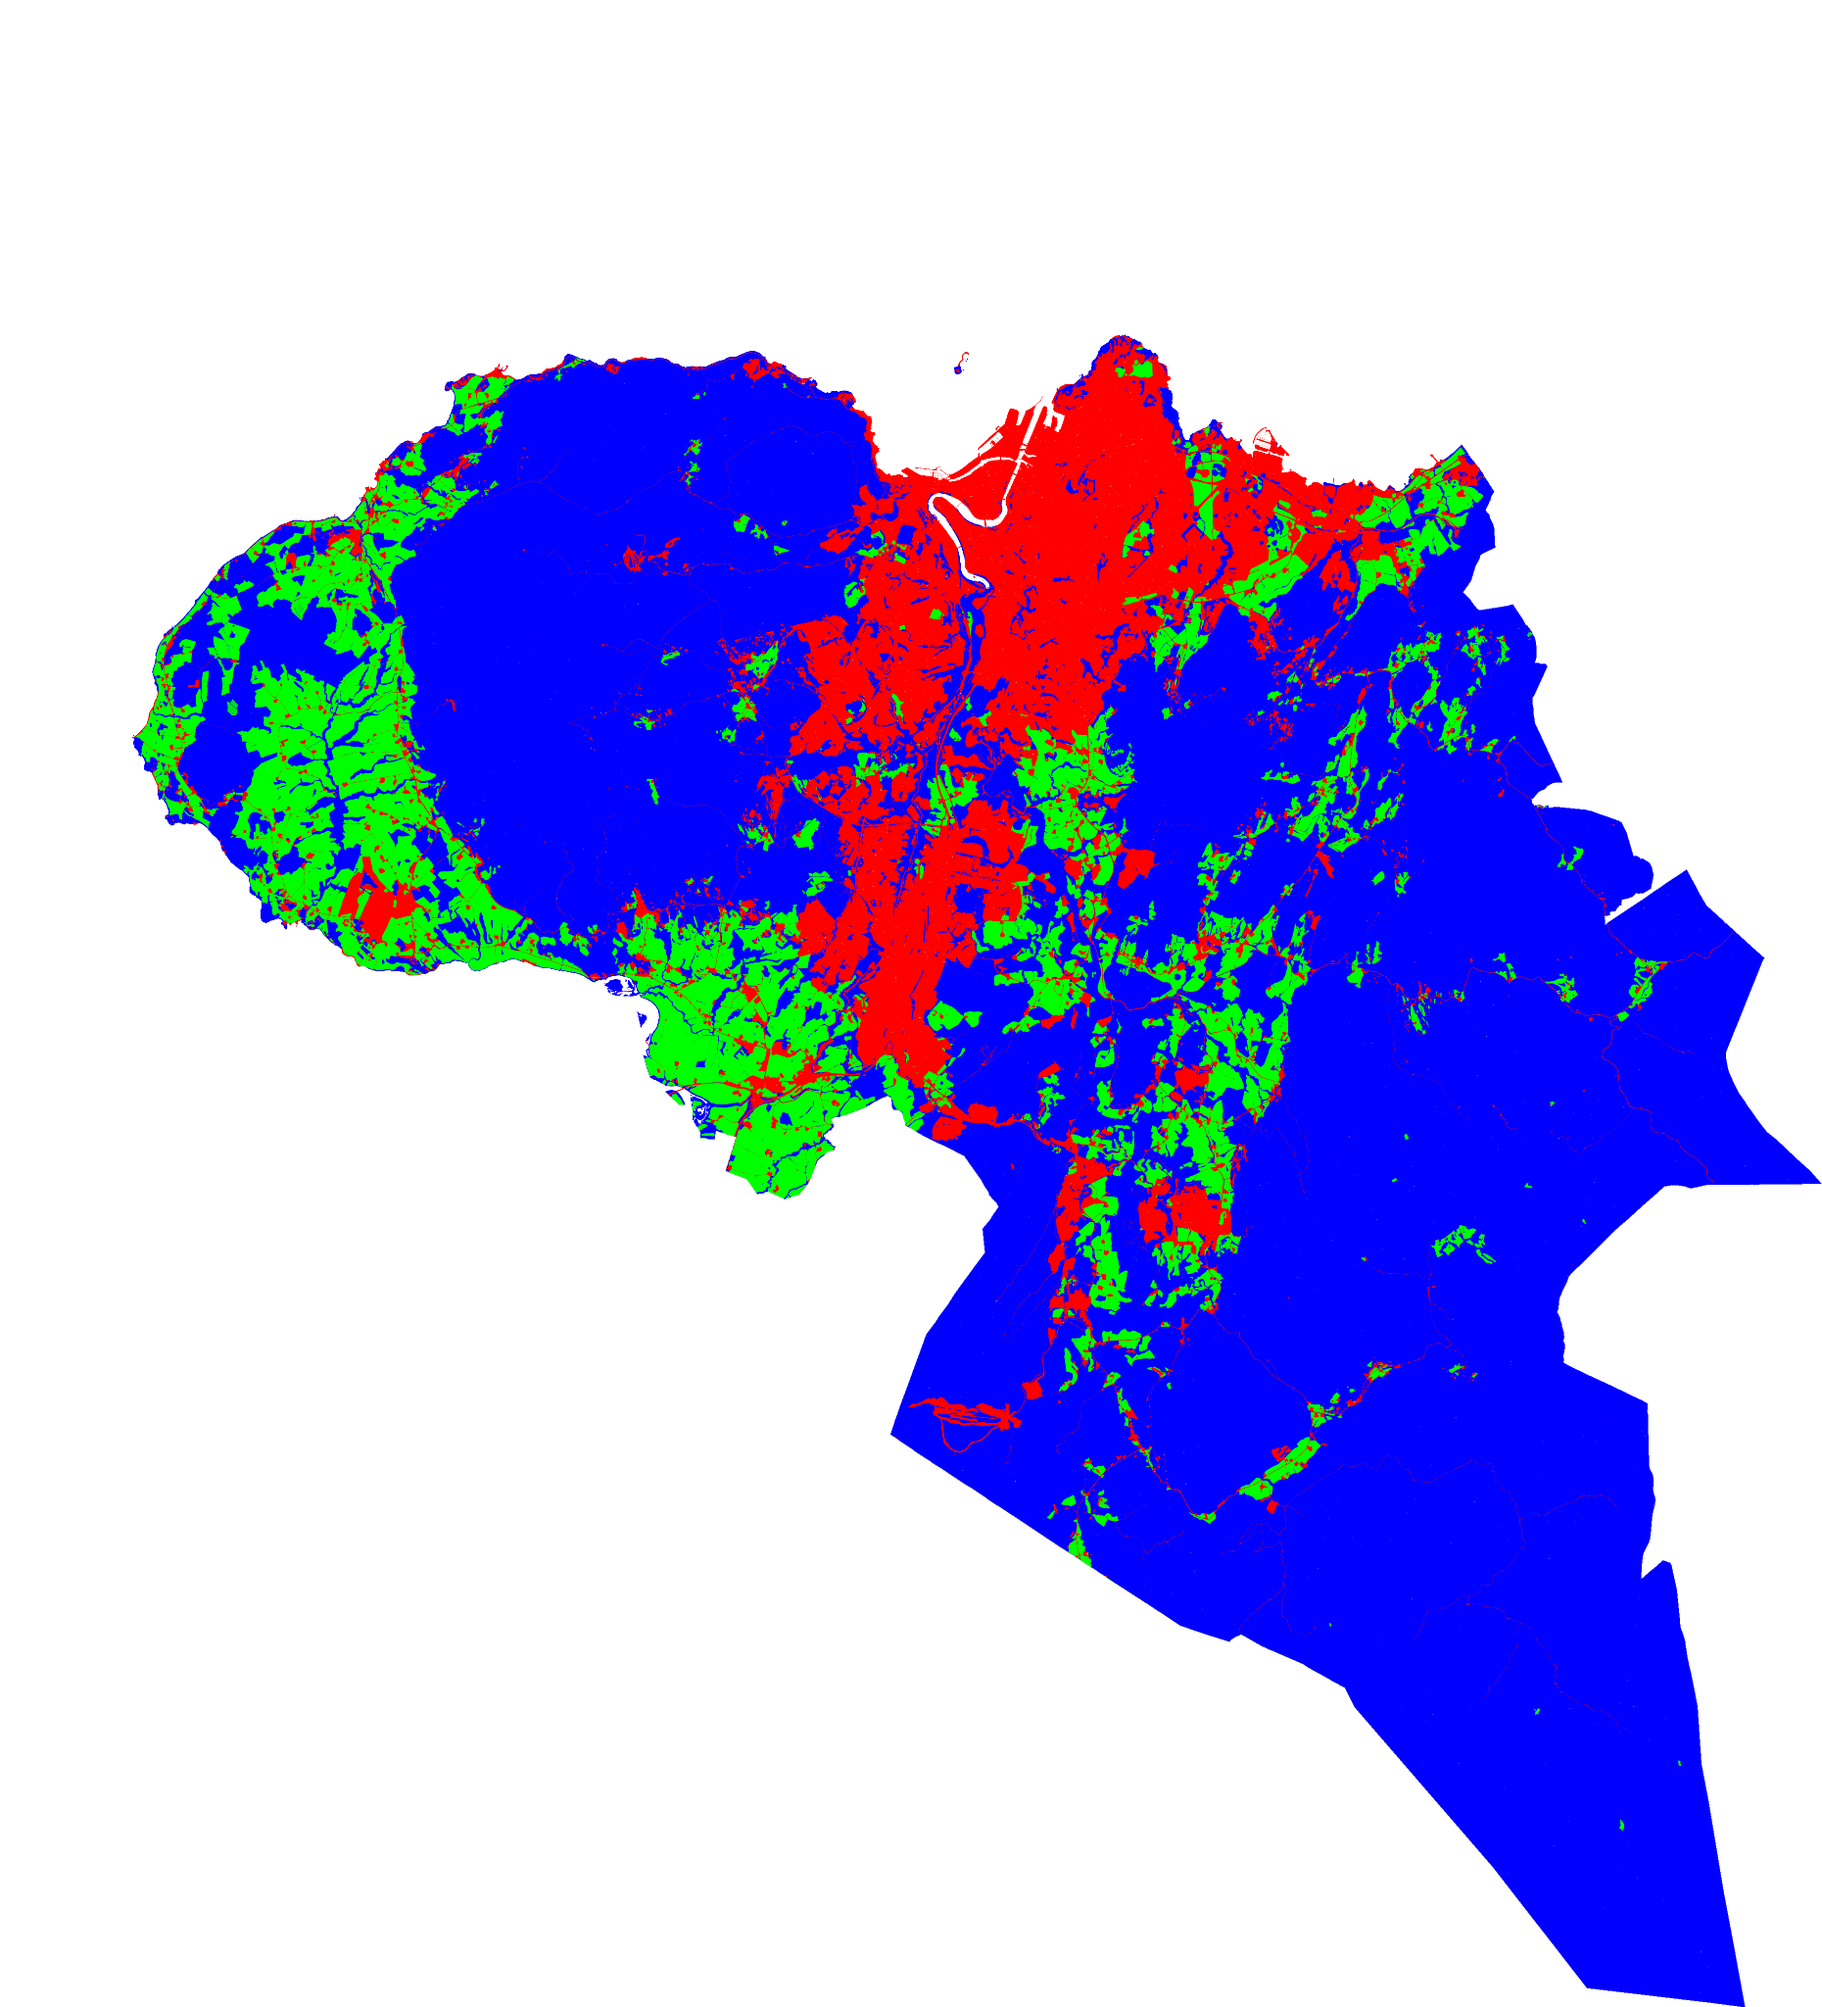
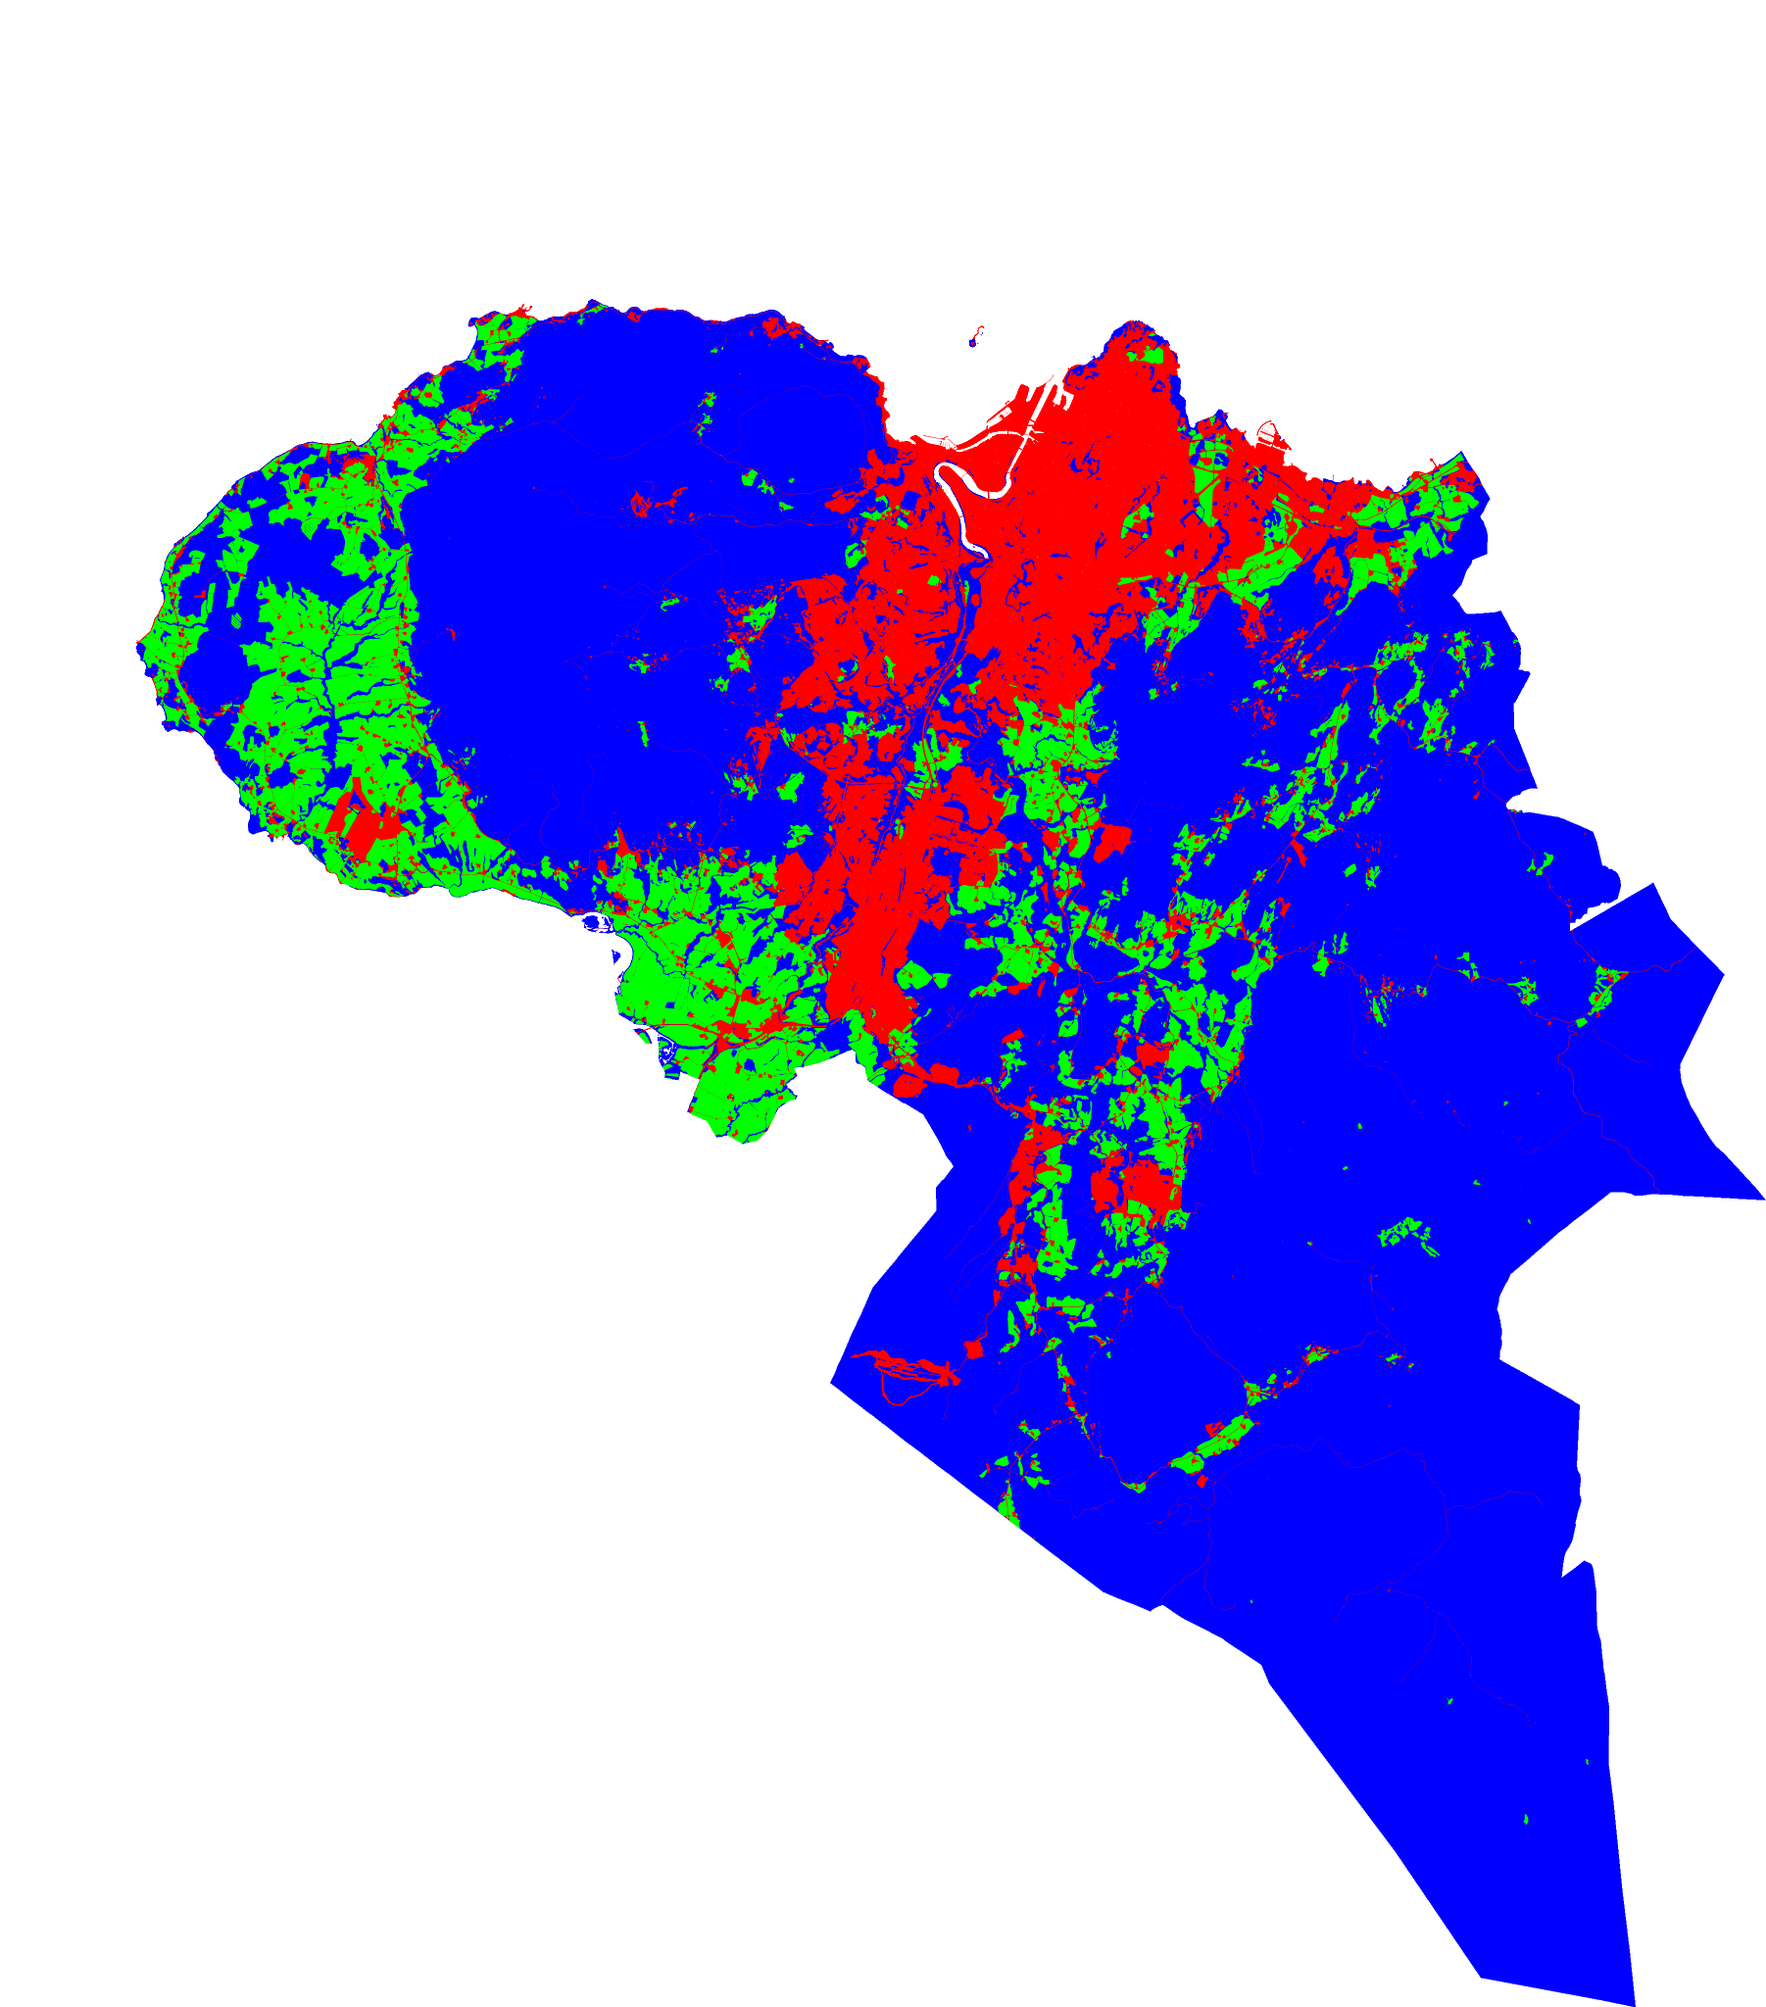
Bytt kartprojeksjon til UTM sone 33, som i NIBIOs Kilden
- Kart, fliser, oversiktsbilde og kommunegrense bruker EPSG:25833
- Bakgrunnskartet hentes fra Kartverkets UTM33-fliser
- NIBIO regner målestokken riktig i UTM, så flisene brukes fra reell 1:50 000
  og hver flis dekker et større område enn i Web Mercator
- Oversiktsbildet for Trondheim er bygget på nytt i UTM

Claude-Session: https://claude.ai/code/session_01QH8pq5t2KXwgqh9Wpy4rkq

diff --git a/index.html b/index.html
@@ -162,14 +162,20 @@ td.feil { color: var(--ink); font-weight: 600 }
   </div>
 </div>
 
+<script src="https://cdnjs.cloudflare.com/ajax/libs/proj4js/2.11.0/proj4.js"></script>
 <script src="https://cdn.jsdelivr.net/npm/ol@10.6.1/dist/ol.js"></script>
 <script>
 (function () {
   const WMS = 'https://wms.nibio.no/cgi-bin/grunnkart_arealanalyse';
   const KV = 'https://api.kartverket.no/kommuneinfo/v1';
   const SSB = 'https://data.ssb.no/api/pxwebapi/v2/tables/09594/data';
-  const FLISNIVA = 13;    /* groveste flisnivå NIBIO tegner: 512 piksler per flis gir 9,6 meter per piksel, innenfor grensen på 1:50 000 */
-  const MAKSRES = 20;     /* kartet må være zoomet inn til under 20 meter per punkt før flisene fra NIBIO brukes */
+  /* Kartet bruker UTM sone 33 (EPSG:25833), som dataene er laget i og som NIBIOs egen kartløsning Kilden bruker.
+     Da regner NIBIO målestokken riktig, og flisene kan brukes fra reell 1:50 000. Rutenettet er Kartverkets for UTM33. */
+  proj4.defs('EPSG:25833', '+proj=utm +zone=33 +ellps=GRS80 +towgs84=0,0,0,0,0,0,0 +units=m +no_defs +type=crs');
+  ol.proj.proj4.register(proj4);
+  const UTM = 'EPSG:25833', ORIGO = [-2500000, 9045984], OPPLOSNINGER = Array.from({ length: 19 }, (_, z) => 21664 / 2 ** z);
+  const FLISNIVA = 10;    /* groveste flisnivå NIBIO tegner: 512 piksler per flis gir 10,6 meter per piksel, innenfor grensen på 1:50 000 */
+  const MAKSRES = 30;     /* kartet må være zoomet inn til under 30 meter per punkt før flisene fra NIBIO brukes */
   const SAMTIDIG = 4;     /* høyst fire kall mot NIBIO om gangen */
   const MAKSTETTHET = 2;  /* telefoner har ofte tre piksler per punkt; to er nok og gir under halvparten så store bilder */
   const DATAFARGE = { beb: '#ff0000', jor: '#00ff00', nat: '#0000ff' };  /* rene farger fra NIBIO, byttes til visningsfarger i nettleseren */
@@ -258,9 +264,9 @@ td.feil { color: var(--ink); font-weight: 600 }
   const raa = new Map();   /* rå flisbilder, slik at fargebytte og skjuling av klasser ikke krever nye kall */
   const klare = new Set(); /* fliser som er ferdig lastet og tegnes skarpt, som «nivå/x/y» */
   const ko = []; let aktive = 0, nyeKall = false, feilIVisning = false, iBevegelse = false, rundeTimer = null, runde = { n: 0, bytes: 0, t0: 0, feil: 0 };
-  const flisnett = ol.tilegrid.createXYZ({ tileSize: 256, minZoom: FLISNIVA, maxZoom: 19 });
+  const flisnett = new ol.tilegrid.TileGrid({ origin: ORIGO, resolutions: OPPLOSNINGER, tileSize: 256, minZoom: FLISNIVA });
   function flisUrl(tc) {
-    return WMS + '?' + new URLSearchParams({ service: 'WMS', version: '1.3.0', request: 'GetMap', layers: 'okosystemtype', styles: '', crs: 'EPSG:3857',
+    return WMS + '?' + new URLSearchParams({ service: 'WMS', version: '1.3.0', request: 'GetMap', layers: 'okosystemtype', styles: '', crs: UTM,
       bbox: flisnett.getTileCoordExtent(tc).map(v => v.toFixed(2)).join(','), width: 512, height: 512, format: 'image/png; mode=8bit', transparent: 'true', sld_body: SLD });
   }
   const slipp = () => { while (aktive < SAMTIDIG && ko.length) { aktive++; ko.shift()() } };
@@ -289,7 +295,7 @@ td.feil { color: var(--ink); font-weight: 600 }
       img.addEventListener('load', () => { URL.revokeObjectURL(url); klare.add(tile.getTileCoord().join('/')) }, { once: true }); img.src = url;
     }).catch(() => tile.setState(3));
   }
-  const nyFlisKilde = () => new ol.source.XYZ({ tileUrlFunction: flisUrl, tileGrid: flisnett, tilePixelRatio: 2, tileLoadFunction: lastFlis, transition: 0, projection: 'EPSG:3857' });
+  const nyFlisKilde = () => new ol.source.XYZ({ tileUrlFunction: flisUrl, tileGrid: flisnett, tilePixelRatio: 2, tileLoadFunction: lastFlis, transition: 0, projection: UTM });
   const tema = new ol.layer.Tile({ className: 'tema', source: nyFlisKilde(), maxResolution: MAKSRES });
   const fargeleggFliser = () => { oversiktSynlig(true); klare.clear(); tema.setSource(nyFlisKilde()) };   /* flisene tegnes på nytt fra de rå bildene, uten nye kall */
 
@@ -303,8 +309,8 @@ td.feil { color: var(--ink); font-weight: 600 }
     const url = URL.createObjectURL(await fargeleggBlob(ov.buf)), gammel = ovUrl; ovUrl = url;
     ovRes = (ov.ext[2] - ov.ext[0]) / new DataView(ov.buf).getUint32(16);   /* kartmeter per piksel i det lagrede bildet */
     oversiktLag.setMinResolution(ovRes); oversiktGrov.setMaxResolution(ovRes);
-    oversiktLag.setSource(new ol.source.ImageStatic({ url, imageExtent: ov.ext, projection: 'EPSG:3857' }));
-    oversiktGrov.setSource(new ol.source.ImageStatic({ url, imageExtent: ov.ext, projection: 'EPSG:3857', interpolate: false }));
+    oversiktLag.setSource(new ol.source.ImageStatic({ url, imageExtent: ov.ext, projection: UTM }));
+    oversiktGrov.setSource(new ol.source.ImageStatic({ url, imageExtent: ov.ext, projection: UTM, interpolate: false }));
     if (gammel) setTimeout(() => URL.revokeObjectURL(gammel), 5000);
   }
   async function hentOversikt(k, mitt) {
@@ -316,11 +322,12 @@ td.feil { color: var(--ink); font-weight: 600 }
       ov = { buf, ext: oversikter[k.nr] }; await tegnOversikt();
     } catch (e) { if (mitt === valgNr) { delete oversikter[k.nr]; status() } }
   }
-  const bakgrunn = new ol.layer.Tile({ className: 'bakgrunn', source: new ol.source.XYZ({
-    url: 'https://cache.kartverket.no/v1/wmts/1.0.0/topograatone/default/webmercator/{z}/{y}/{x}.png', maxZoom: 18, crossOrigin: 'anonymous', attributions: '© Kartverket, NIBIO' }) });
+  const bakgrunn = new ol.layer.Tile({ className: 'bakgrunn', source: new ol.source.XYZ({ projection: UTM, crossOrigin: 'anonymous', attributions: '© Kartverket, NIBIO',
+    tileGrid: new ol.tilegrid.TileGrid({ origin: ORIGO, resolutions: OPPLOSNINGER, tileSize: 256 }),
+    tileUrlFunction: ([z, x, y]) => `https://cache.kartverket.no/v1/wmts/1.0.0/topograatone/default/utm33n/${String(z).padStart(2, '0')}/${y}/${x}.png` }) });
   const grenseKilde = new ol.source.Vector();
   const grense = new ol.layer.Vector({ className: 'grense', source: grenseKilde, style: () => new ol.style.Style({ stroke: new ol.style.Stroke({ color: farge('ink'), width: 1.5 }) }) });
-  const view = new ol.View({ center: ol.proj.fromLonLat([15, 65]), zoom: 4, maxZoom: 19, enableRotation: false });
+  const view = new ol.View({ projection: UTM, center: ol.proj.fromLonLat([15, 65], UTM), resolutions: OPPLOSNINGER.slice(2), resolution: OPPLOSNINGER[4], enableRotation: false });
   const kart = new ol.Map({ target: 'kart', layers: [bakgrunn, oversiktLag, oversiktGrov, tema, grense], view, pixelRatio: Math.min(window.devicePixelRatio || 1, MAKSTETTHET),
     controls: [new ol.control.Zoom({ zoomInTipLabel: 'Zoom inn', zoomOutTipLabel: 'Zoom ut' }), new ol.control.ScaleLine(), new ol.control.Attribution({ collapsible: false })] });
   const tegnPaaNytt = () => { tegnOversikt(); fargeleggFliser(); grense.changed() };
@@ -411,9 +418,9 @@ td.feil { color: var(--ink); font-weight: 600 }
   }
   async function hentGrense(k, mitt) {
     try {
-      const j = await hent('Kartverket', `Grense for ${k.navn}`, `${KV}/kommuner/${k.nr}/omrade?utkoordsys=4258`);
+      const j = await hent('Kartverket', `Grense for ${k.navn}`, `${KV}/kommuner/${k.nr}/omrade?utkoordsys=25833`);
       if (mitt !== valgNr) return;
-      const geom = new ol.format.GeoJSON().readGeometry(j.omrade, { dataProjection: 'EPSG:4326', featureProjection: 'EPSG:3857' });
+      const geom = new ol.format.GeoJSON().readGeometry(j.omrade, { dataProjection: UTM, featureProjection: UTM });
       grenseKilde.clear(); grenseKilde.addFeature(new ol.Feature(geom));
       klipp = geom; tema.setExtent(geom.getExtent()); tema.setVisible(true);
       if (!k.boks) view.fit(geom.getExtent(), { padding: [16, 16, 16, 16], duration: 350 });
@@ -432,7 +439,7 @@ td.feil { color: var(--ink); font-weight: 600 }
     $('probe').textContent = 'Trykk på kartet for å se klassen.'; tomTall('Henter …');
     grenseKilde.clear(); klipp = null; tema.setVisible(false); tema.setExtent(undefined); $('siste').textContent = '';
     hentOversikt(k, mitt);
-    if (k.boks) view.fit(ol.proj.transformExtent(k.boks, 'EPSG:4326', 'EPSG:3857'), { padding: [16, 16, 16, 16], duration: 350 });
+    if (k.boks) view.fit(ol.proj.transformExtent(k.boks, 'EPSG:4326', UTM), { padding: [16, 16, 16, 16], duration: 350 });
     hentTall(k, mitt); hentGrense(k, mitt); status();
   }
   fSel.addEventListener('change', () => { const f = fylker.find(x => x.nr === fSel.value); fyllKommuner(f); velg(kSel.value) });
